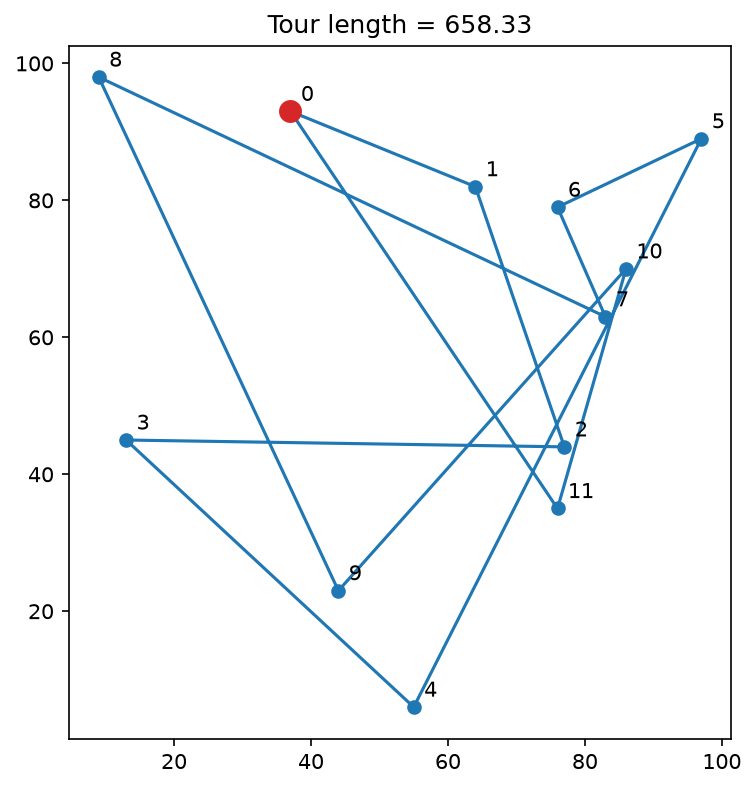
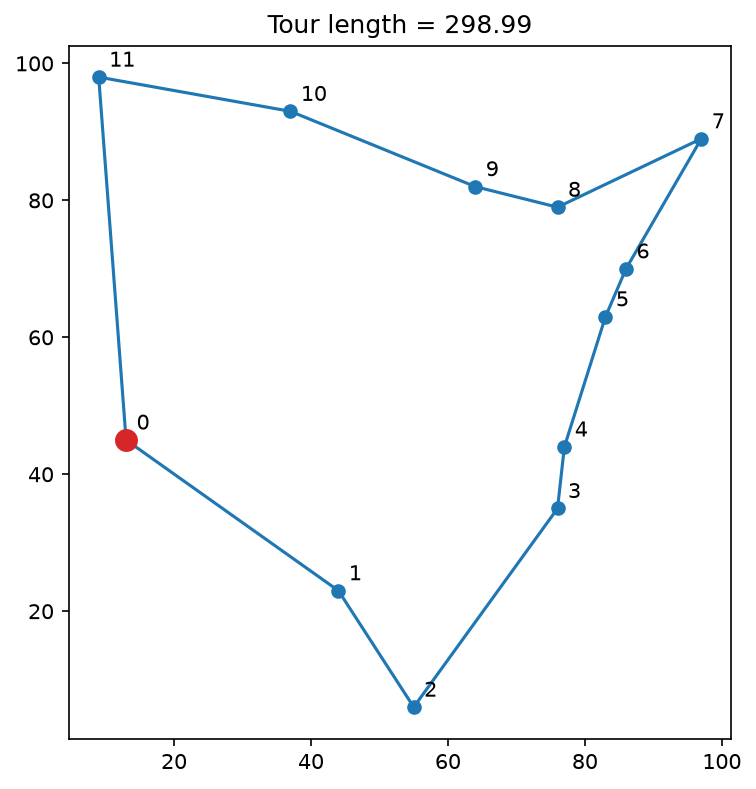
Refactor into TSP class, add hill climbing on 12 and 50 cities, notes

diff --git a/13_simulated-annealing/solution.py b/13_simulated-annealing/solution.py
@@ -6,62 +6,188 @@ from pathlib import Path
 
 OUT_DIR = Path(__file__).parent
 
-cities = [(77,44),(86,70),(9,98),(76,79),(13,45),(37,93),
-          (64,82),(44,23),(55,6),(83,63),(76,35),(97,89)]
 
 def two_opt(tour, i, j):
     """Return a new tour with positions i..j (inclusive) reversed."""
     return tour[:i] + tour[i:j+1][::-1] + tour[j+1:]
 
 
+def get_original_cities():
+    """Return the 12 cities from the original problem statement."""
+    return [(77,44),(86,70),(9,98),(76,79),(13,45),(37,93),
+            (64,82),(44,23),(55,6),(83,63),(76,35),(97,89)]
+
+
+def random_cities(n, size=100, seed=None):
+    """Return n random (x, y) integer points in a size x size square.
+
+    Pass a seed to get the same cities every time, which makes comparing
+    runs and cooling schedules fair.
+    """
+    rng = random.Random(seed)
+    return [(rng.randint(0, size), rng.randint(0, size)) for _ in range(n)]
+
+
 def city_distance(city_a, city_b):
+    """Return the Euclidean distance between two (x, y) points."""
     (x1, y1), (x2, y2) = city_a, city_b
     return math.hypot(x2 - x1, y2 - y1)
 
 
+class TSP:
+    """A travelling-salesman instance: the cities plus everything that depends on them.
 
-def tour_length(tour):
-    total_length = 0
-    for ii, _ in enumerate(tour):
-        total_length += city_distance(cities[tour[ii-1]], cities[tour[ii]])
+    A tour is a list of indices into cities, in visiting order. The distances
+    between all pairs of cities are precomputed once, so evaluating a move is
+    just a few table lookups.
+    """
 
-    return total_length
+    def __init__(self, cities):
+        """Store the cities and precompute the full pairwise distance matrix."""
+        self.cities = cities
+        self.n = len(cities)
+        self.dist = [[city_distance(a, b) for b in cities] for a in cities]
+
+    def random_tour(self):
+        """Return a uniformly random tour of all cities."""
+        return random.sample(range(self.n), self.n)
+
+    def tour_length(self, tour):
+        """Return the length of the closed tour, including the edge back to the start."""
+        return sum(self.dist[tour[ii-1]][tour[ii]] for ii in range(len(tour)))
+
+    def two_opt_delta(self, tour, i, j):
+        """Return the change in tour length if positions i..j were reversed (i < j).
+
+        Only the two boundary edges change: (a, b) and (c, d) are replaced by
+        (a, c) and (b, d), so this is O(1) rather than recomputing the whole tour.
+        Negative means the move shortens the tour. Indices wrap around the loop.
+        """
+        n = len(tour)
+
+        # Guard for the case of the whole tour being reversed
+        if abs(i-j) == n-1:
+            return 0
+
+        a, b = tour[i-1], tour[i]
+        c, d = tour[j], tour[(j+1) % n]
+
+        return self.dist[a][c] + self.dist[b][d] - self.dist[a][b] - self.dist[c][d]
+
+    def hill_climb(self, tour):
+        """Apply the best improving 2-opt move until none remains; return the tour."""
+        n = len(tour)
+
+        while True:
+            # 1. scan all i < j, tracking the most negative delta and its (i, j)
+            best_i, best_j = -1, -1
+            best_delta = -1e-9  # tolerance: ignore floating-point noise
+            for jj in range(n):
+                for ii in range(jj):
+                    delta = self.two_opt_delta(tour, ii, jj)
+                    if delta < best_delta:
+                        best_delta = delta
+                        best_i, best_j = ii, jj
+            # 2. no improving move found: this is a local optimum
+            if best_i == -1:
+                break
+            # 3. otherwise apply the best move
+            tour = two_opt(tour, best_i, best_j)
+        return tour
+
+    def plot_tour(self, tour, title=None, ax=None):
+        """Draw a closed tour over the cities, numbering each stop.
+
+        The start city is red. Draws on ax if given, else a new figure, and returns the axes.
+        """
+        cities = self.cities
+        if ax is None:
+            _, ax = plt.subplots(figsize=(6, 6))
+
+        xs = [cities[i][0] for i in tour] + [cities[tour[0]][0]]
+        ys = [cities[i][1] for i in tour] + [cities[tour[0]][1]]
+
+        ax.plot(xs, ys, "-o", color="tab:blue", markersize=6)
+        for step, city in enumerate(tour):
+            ax.annotate(step, cities[city], textcoords="offset points", xytext=(5, 5))
+        ax.plot(*cities[tour[0]], "o", color="tab:red", markersize=10)  # start city
+
+        ax.set_title(title or f"Tour length = {self.tour_length(tour):.2f}")
+        ax.set_aspect("equal")
+        return ax
+
+    def check_two_opt_delta(self, tour):
+        """Assert two_opt_delta matches a brute-force length difference for every i < j."""
+        n = len(tour)
+
+        for jj in range(n):
+            for ii in range(jj):
+                clever = self.two_opt_delta(tour, ii, jj)
+                simple = self.tour_length(two_opt(tour, ii, jj)) - self.tour_length(tour)
+                assert math.isclose(clever, simple, abs_tol=1e-6), (tour, ii, jj, clever, simple)
 
 
-def plot_tour(tour, title=None, ax=None):
-    """Draw a closed tour over the cities, numbering each stop."""
-    if ax is None:
-        _, ax = plt.subplots(figsize=(6, 6))
+def plot_histogram(lengths, filename="hill_climb_hist.png", optimum=None, bins=30):
+    """Save a histogram of tour lengths to OUT_DIR/filename, marking the optimum if known."""
+    fig, ax = plt.subplots(figsize=(7, 4))
 
-    xs = [cities[i][0] for i in tour] + [cities[tour[0]][0]]
-    ys = [cities[i][1] for i in tour] + [cities[tour[0]][1]]
+    ax.hist(lengths, bins=bins, color="tab:blue", edgecolor="white")
+    if optimum is not None:
+        ax.axvline(optimum, color="tab:red", linestyle="--", label=f"optimum {optimum}")
+        ax.legend()
 
-    ax.plot(xs, ys, "-o", color="tab:blue", markersize=6)
-    for step, city in enumerate(tour):
-        ax.annotate(step, cities[city], textcoords="offset points", xytext=(5, 5))
-    ax.plot(*cities[tour[0]], "o", color="tab:red", markersize=10)  # start city
+    ax.set_xlabel("Final tour length")
+    ax.set_ylabel("Number of runs")
+    ax.set_title(f"Hill climbing local optima ({len(lengths)} restarts)")
 
-    ax.set_title(title or f"Tour length = {tour_length(tour):.2f}")
-    ax.set_aspect("equal")
-    return ax
+    fig.savefig(OUT_DIR / filename, dpi=150, bbox_inches="tight")
+    plt.close(fig)
+
+
+def plot_tour(problem, tour, filename, title=None):
+    """Plot a tour on the given TSP instance and save it to OUT_DIR/filename."""
+    problem.plot_tour(tour, title=title)
+    plt.savefig(OUT_DIR / filename, dpi=150, bbox_inches="tight")
+    plt.close()
 
 
 def main():
+    """Check the delta calculation, then run hill-climbing restarts on 50 random cities."""
 
-    test_tour = [5, 7, 6, 9, 2, 0, 3, 11, 8, 4, 1, 10]
-    # random_tour = random.sample(range(12), 12)
+    verbose = False
+    n_trials = 100
 
-    tour = two_opt(test_tour,1,3)
-    tour = two_opt(tour,1,2)
-    tour = two_opt(tour,3,4)
-    tour = two_opt(tour,2,5)
-    tour = two_opt(tour,3,9)
+    small = TSP(get_original_cities())
+    big = TSP(random_cities(n=50, seed=1))
 
-    print(f"{tour}: length={tour_length(tour):.2f}")
+    # Refactor safety net: the O(1) delta must agree with brute force on both instances.
+    for problem in (small, big):
+        for _ in range(20):
+            problem.check_two_opt_delta(problem.random_tour())
 
-    plot_tour(tour)
-    plt.savefig(OUT_DIR / "random_tour.png", dpi=150, bbox_inches="tight")
-    plt.close()
+    lengths = []
+    best_tour = None
+    for _ in range(n_trials):
+        tour = big.random_tour()
+        final_tour = big.hill_climb(tour)
+        final_length = big.tour_length(final_tour)
+        if verbose:
+            print(f"{tour}: initial length={big.tour_length(tour):.2f}")
+            print(f"{final_tour}: final length={final_length:.2f}")
+        lengths.append(final_length)
+        if best_tour is None or final_length < big.tour_length(best_tour):
+            best_tour = final_tour
+
+    # Print statistics
+    arr = np.array(lengths)
+    print(f"min: {arr.min():.2f}, max: {arr.max():.2f}, mean: {arr.mean():.2f}, "
+          f"median: {np.median(arr):.2f}, stdev: {arr.std():.2f}")
+    
+    # Save plots
+    plot_histogram(lengths)
+    plot_tour(big, best_tour, "best_hill_climb_tour.png",
+                   title=f"Best hill-climb tour: {big.tour_length(best_tour):.2f}")
+
 
 if __name__ == "__main__":
     main()

diff --git a/13_simulated-annealing/NOTES.md b/13_simulated-annealing/NOTES.md
@@ -1,0 +1,76 @@
+# Simulated Annealing — Notes
+
+**Setup:** find a short closed tour through a set of cities (the travelling salesman problem). Build local search on it: hill climbing first, then simulated annealing. The 12-city instance has a known optimum of 298.99 (Held–Karp), so it works as ground truth.
+
+## Status
+
+Hill climbing is done on 12 and 50 cities. **Annealing is not written yet.** See *Not done*.
+
+## Tours and the 2-opt move
+
+A tour is a list of city indices in visiting order, and it is a **loop**: the last city connects back to the first. Forgetting that closing edge is the easy bug in `tour_length`. Python's `tour[-1]` gives it for free: pair every `tour[ii-1]` with `tour[ii]`.
+
+**2-opt** removes two edges and reconnects the tour the only other way that stays one loop. In list terms it is reversing a segment, `tour[:i] + tour[i:j+1][::-1] + tour[j+1:]`. The name comes from the k-opt family: *k* edges removed. A tour is **2-optimal** when no single 2-opt move shortens it.
+
+Any crossing can be removed by a 2-opt move that shortens the tour, so a 2-optimal tour has **no crossings**. The converse fails: a tour with no crossings can still be improved by moves that don't remove a crossing, so "no crossings" is not the stopping test. The test is "no move has Δ < 0".
+
+## The O(1) delta
+
+Reversing positions `i..j` leaves the edges *inside* the segment unchanged (they are only walked backwards). Only the two boundary edges change. With `a = tour[i-1]`, `b = tour[i]`, `c = tour[j]`, `d = tour[(j+1) % n]`:
+
+Δ = d(a,c) + d(b,d) − d(a,b) − d(c,d)
+
+Negative Δ means an improving move. Edge cases, all found by the brute-force test:
+
+- `i = 0`: `a` wraps to the last city (`tour[-1]` does it).
+- `j = n-1`: `d` must wrap to `tour[0]`; `tour[j+1]` raises `IndexError`. Use `% n`.
+- `i = 0` and `j = n-1` together: the whole loop is reversed, which gives the same loop backwards with the same length. The formula would wrongly give −2·d(i,j), so the function returns 0 for `abs(i-j) == n-1`.
+
+`check_two_opt_delta` compares the O(1) delta with `tour_length(two_opt(...)) - tour_length(...)` for every `i < j` on random tours, using `math.isclose(..., abs_tol=1e-6)`. The tolerance is absolute because Δ is often near 0.
+
+## Hill climbing
+
+Best-improvement (steepest descent): scan every `i < j`, apply the single most negative Δ, repeat until a full scan finds none. That scan is what proves the result is a local optimum. Two details:
+
+- `best_delta` starts at **−1e-9**, not 0, so floating-point noise (a "Δ" of −1e-14) can't be accepted as an improvement and cycle forever.
+- A bug I had at first: `hill_climb` called itself recursively inside its own `while` loop and discarded the result. The loop already does the repeating, so the call only wasted work.
+
+### 12 cities: it just works
+
+Every restart reached 298.99. The first 5 runs did (initial lengths 589–692), and so did 1000 of 1000 in a later run. The final tours differ as lists but are the same loop, rotated or reversed.
+
+That contradicts the problem file's "single-run hill climbing typically strands a few percent above", at least for this climber on this instance. With 12 cities the landscape is easy for steepest-descent 2-opt, so annealing can't beat it here. A weaker climber (first-improvement in random order, or adjacent swaps only) would probably show real local optima, but I haven't tried it.
+
+### 50 random cities: it doesn't
+
+`random_cities(50, seed=1)`, 100 restarts:
+
+<p align="center">
+  <img src="hill_climb_hist.png" alt="Histogram of 100 hill-climbing local optima on 50 cities, ranging from about 639 to 710" width="600">
+</p>
+
+The local optima run from about 639 to 710, a spread of roughly 10%, and almost every restart ends somewhere different. The best tour has length 638.73:
+
+<p align="center">
+  <img src="best_hill_climb_tour.png" alt="Best hill-climbing tour on 50 cities, length 638.73, with no crossings but several long edges" width="500">
+</p>
+
+It has no crossings, as expected, but it still has long diagonals and doubling back. Fixing those needs several coordinated moves whose intermediate tours are worse, which is what accepting a worse move sometimes could allow.
+
+A rough yardstick from the random-uniform TSP constant, 0.7124·√(n·A), gives about 500 for n = 50, A = 10,000, and the boundary effect pushes the true optimum higher. My guess is somewhere around 550–600. **This is a formula-based guess, not a measured value.**
+
+## Code notes
+
+- **`TSP` class:** holds the cities and a precomputed pairwise distance matrix, so a delta is four table lookups. `tour_length`, `two_opt_delta`, `hill_climb`, `plot_tour`, `check_two_opt_delta` and `random_tour` are methods. This replaced a module-level `cities` global, which made 12-city and 50-city instances impossible to use side by side.
+- **`random_cities`:** uses its own `random.Random(seed)`, so a fixed seed fixes the cities without touching the global random state used for tours.
+- **Plot helpers:** `plot_histogram` and `save_tour_plot` write PNGs next to the script via `Path(__file__).parent`.
+- `math.dist` / `math.hypot` beat `np.sqrt` for single points, since numpy has per-call overhead on scalars.
+- The brute-force check was run on both instances after the refactor.
+
+## Not done
+
+- **Simulated annealing itself.** Decisions still to make: how to propose one random `(i, j)` with `i < j`; accept worsening moves with probability exp(−Δ/T); schedule T from 100, ×0.999 per step, ~50k steps (final T is 100·0.999^50000, which I haven't computed yet).
+- The trace plot of tour length over time, and the comparison of best-of-20 hill climbing vs one annealing run vs the 298.99 optimum.
+- **Held–Karp** DP to confirm 298.99 independently.
+- Tuning the schedule on 50 cities, and what "tuned well" means without ground truth.
+- A weaker hill climber, to see non-trivial local optima on the 12 cities.
